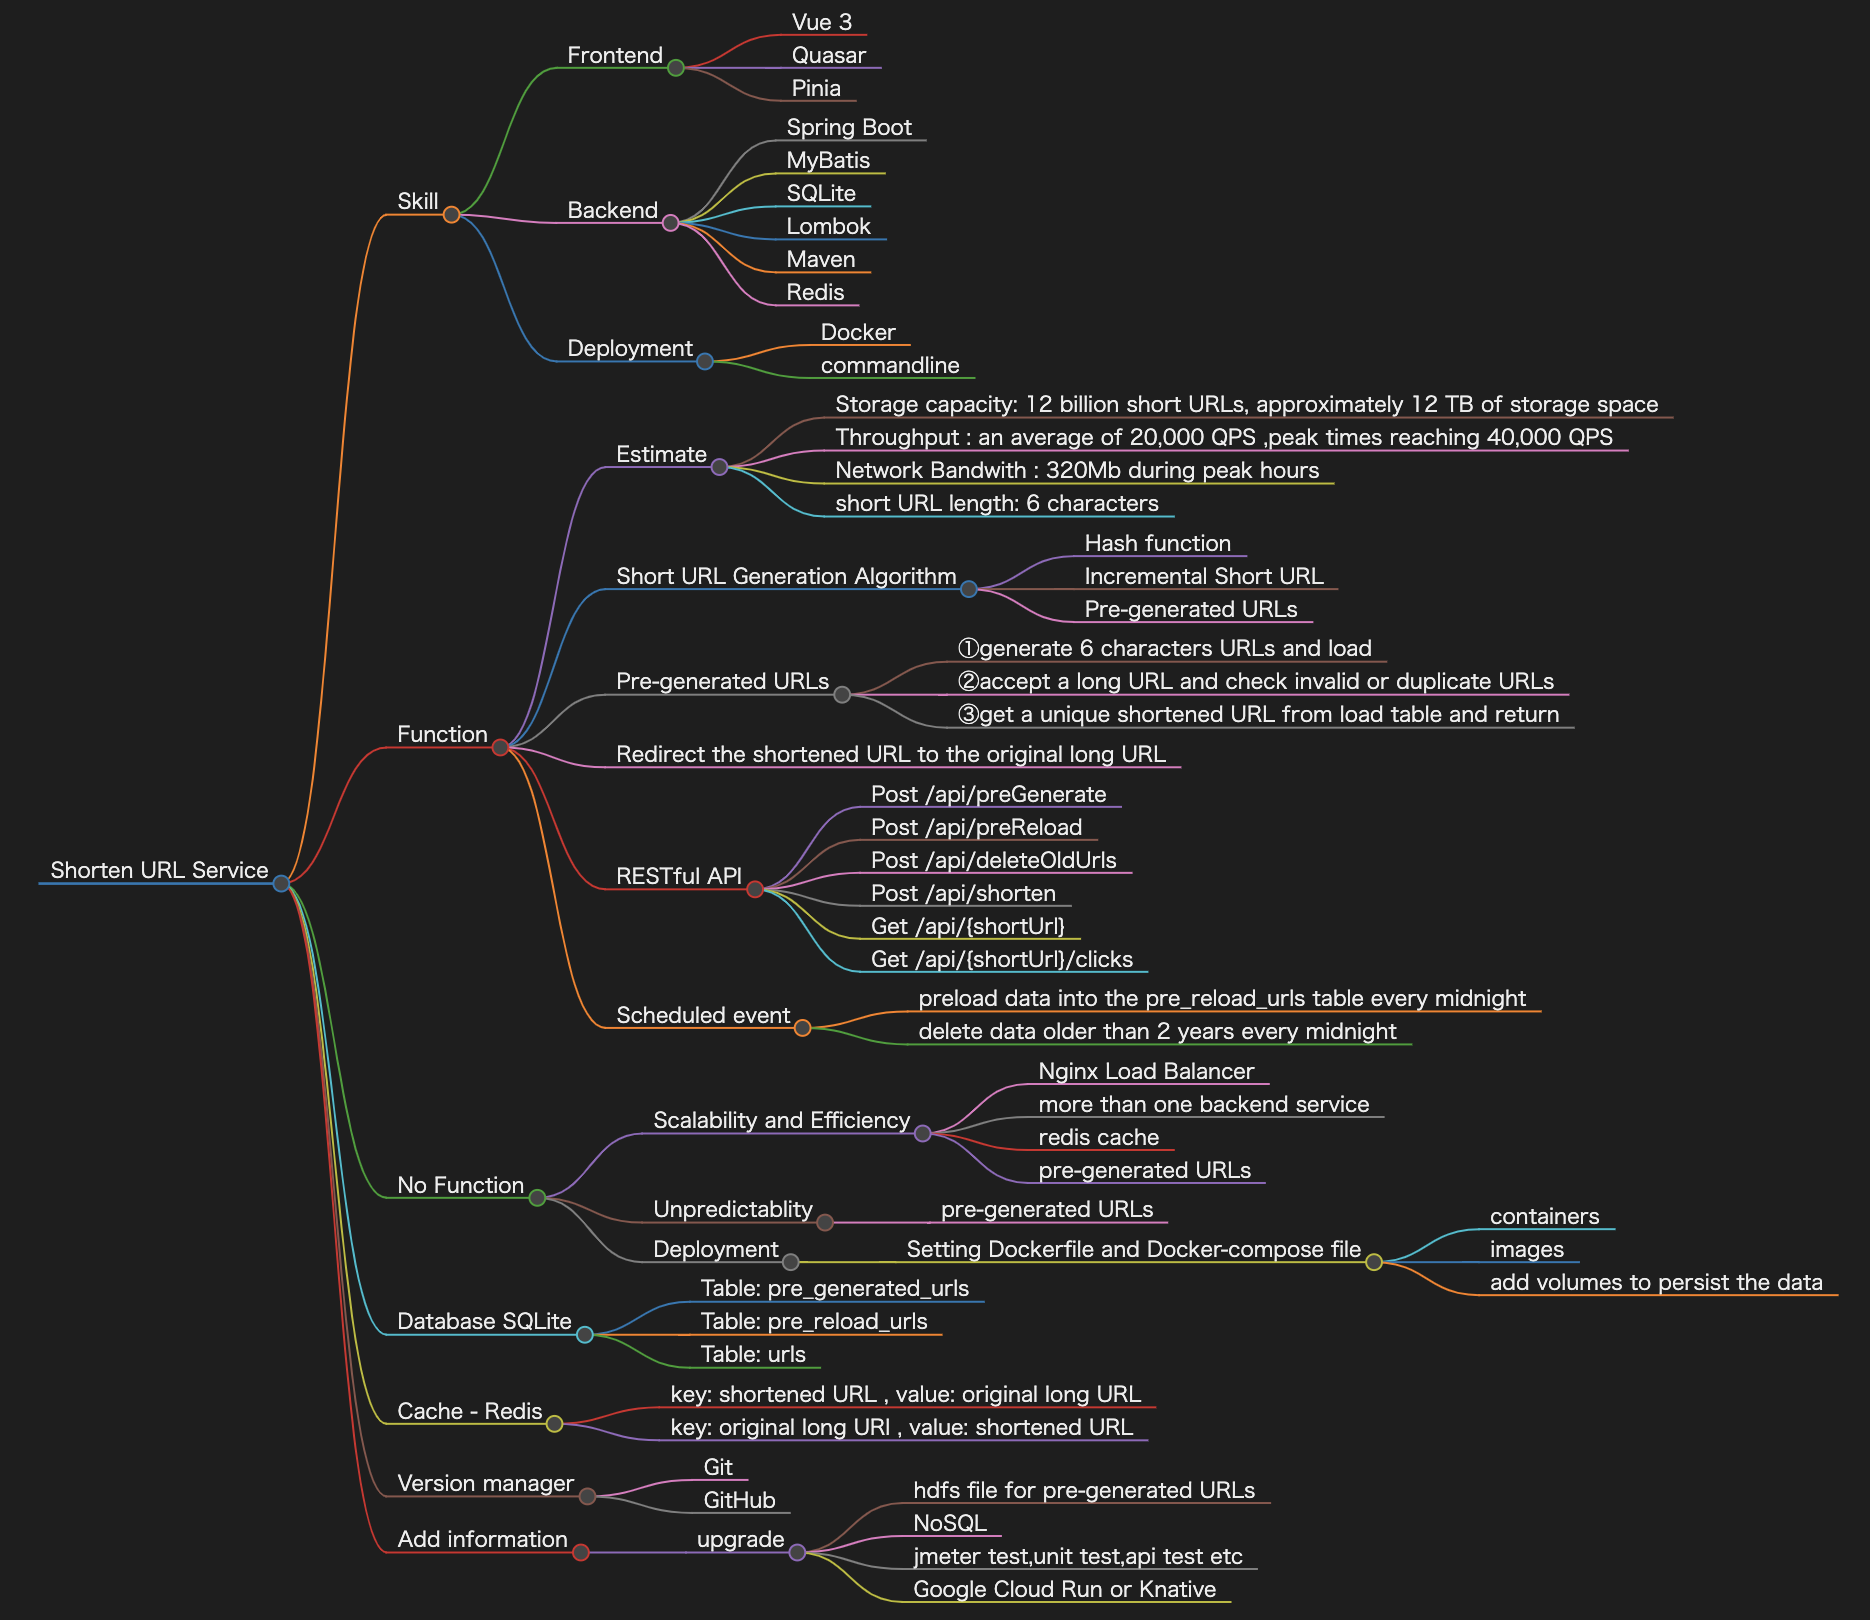
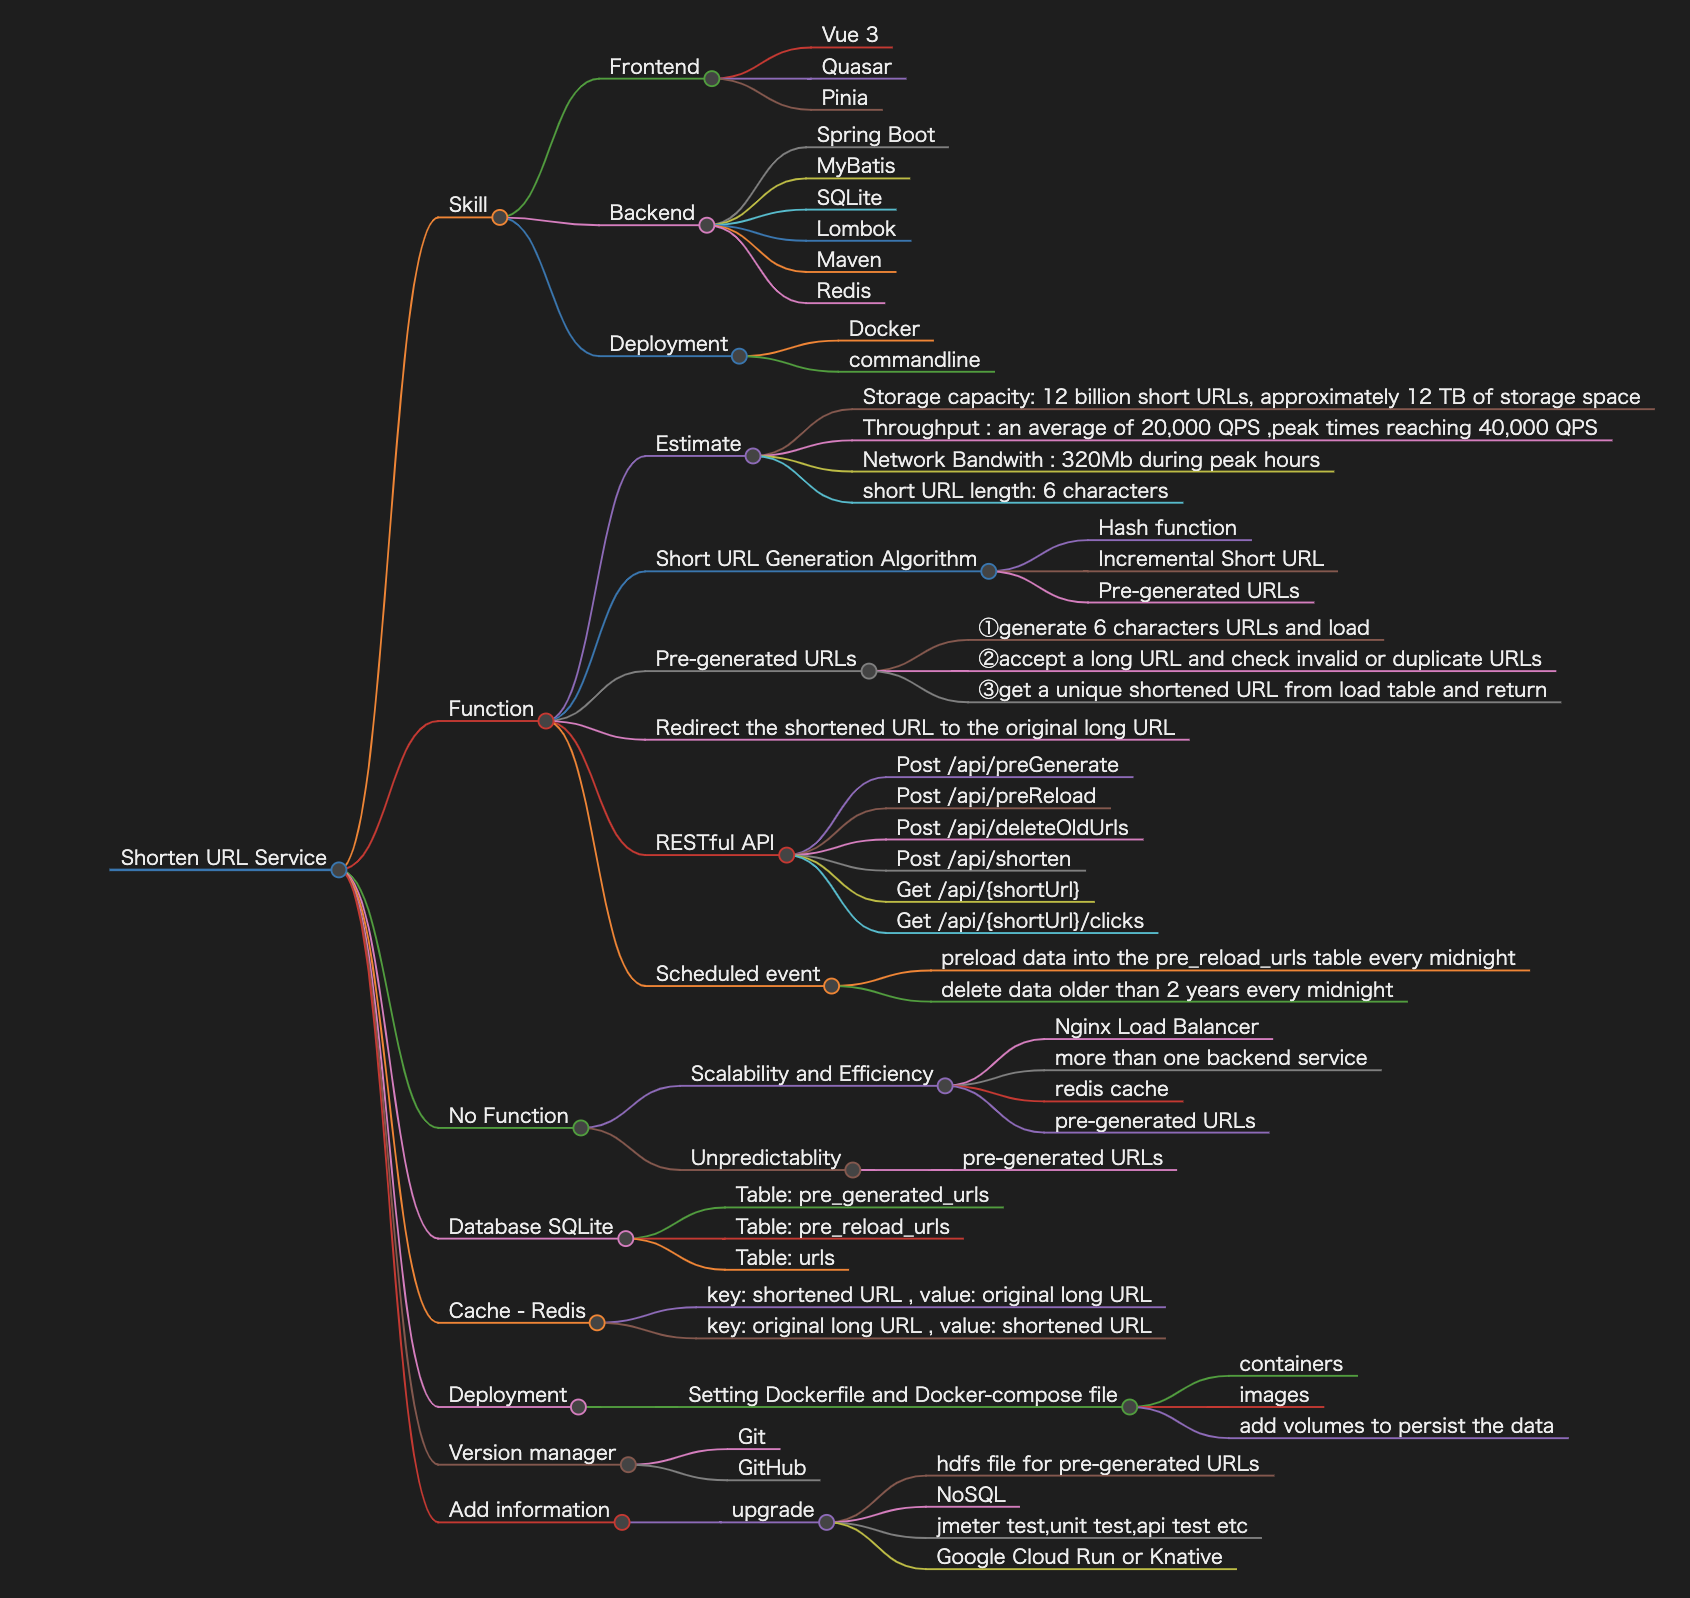
modify document

Changed region(s): [[0.1846, 0.0, 0.9846, 1.0], [0.0308, 0.4906, 0.2154, 0.7972]]

diff --git a/tinyurlThinkmind.md b/tinyurlThinkmind.md
@@ -50,11 +50,6 @@
   - pre-generated URLs
 - Unpredictablity
   - pre-generated URLs
-- Deployment
-  - Setting Dockerfile and Docker-compose file
-    - containers
-    - images
-    - add volumes to persist the data
 
 ## Database SQLite
 - Table: pre_generated_urls
@@ -63,7 +58,13 @@
   
 ## Cache - Redis
 - key: shortened URL , value: original long URL
-- key: original long URl , value: shortened URL
+- key: original long URL , value: shortened URL
+
+## Deployment
+- Setting Dockerfile and Docker-compose file
+  - containers
+  - images
+  - add volumes to persist the data
 
 ## Version manager
 - Git
